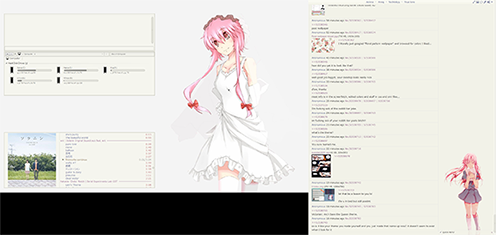
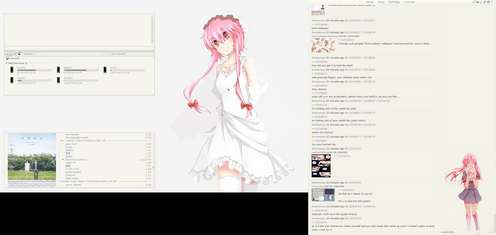
Update Gulp to generate thumbnails
Why resize my screenshots if Gulp can do it for me?

diff --git a/gulpfile.js b/gulpfile.js
@@ -9,6 +9,8 @@ var uncache = require("gulp-uncache");
 var htmlmin = require("gulp-htmlmin");
 var imagemin = require("gulp-imagemin");
 var sriHash = require("gulp-sri-hash");
+var imageResize = require("gulp-image-resize");
+var rename = require("gulp-rename");
 
 var src = "src/";
 var build = "public/";
@@ -31,6 +33,22 @@ gulp.task("minify-html", function() {
     .pipe(gulp.dest(build));
 });
 
+gulp.task("generate-thumbnails", function() {
+  gulp
+    .src([src + "assets/images/desktop.png", src + "assets/images/laptop.png"])
+    .pipe(
+      imageResize({
+        width: 496
+      })
+    )
+    .pipe(
+      rename(function(path) {
+        path.basename += "-thumbnail";
+      })
+    )
+    .pipe(gulp.dest(src + "assets/images/"));
+});
+
 gulp.task("optimize-images", function() {
   return gulp
     .src(src + "assets/images/**/*")
@@ -50,7 +68,13 @@ gulp.task("copy", function() {
 
 gulp.task(
   "build",
-  ["minify-css", "minify-html", "optimize-images", "copy"],
+  [
+    "generate-thumbnails",
+    "minify-css",
+    "minify-html",
+    "optimize-images",
+    "copy"
+  ],
   function() {
     process.chdir(src);
 
